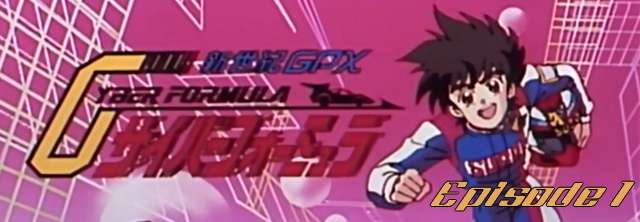
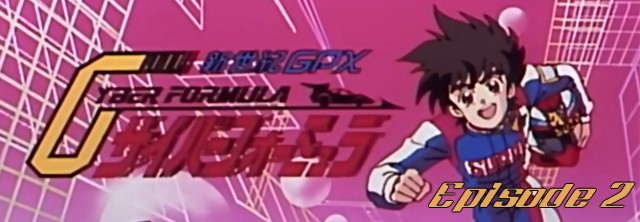
new post

Changed region(s): [[0.6562, 0.8108, 1.0, 0.973]]

diff --git a/2014-08-13.html b/2014-08-13.html
@@ -1,7 +1,7 @@
 <!DOCTYPE html>
 <html lang="fr-FR">
 	<head>
-		<title>Future GPX Cyber Formula | Nobluesky Fansub</title>
+		<title>Future GPX Cyber Formula 02 vostfr | Nobluesky Fansub</title>
 		<meta charset="utf-8" />
 		<link rel="Shortcut Icon" type="image/x-icon" href="favicon.ico" />
 		<link href="fonts/fonts.css" rel="stylesheet" type="text/css" />
@@ -51,26 +51,34 @@
 	<div id="article">
 		<div id="content">
 			<div class="post">
-				<h1 class="title">Future GPX Cyber Formula</h1>
-				<div style="clear: both;">&nbsp;</div>
+				<h1 class="title">Future GPX Cyber Formula 02 vostfr</h1>
+				<p class="meta"><span class="date">13 Août 2014</span><span class="posted">Posté par <a href="about.html#nobluesky">Nobluesky</a></span></p>
 				<div style="clear: both;">&nbsp;</div>
 				<div class="entry">
-					<img class="post-images" src="images/2014/futuregpxcf.jpg" alt="" />
-					<p>Série de 37 épisodes, 1991.</p>
-					<p>Hayato Kazami, 14 ans, devient par hasard le plus jeune pilote de Cyber Formule, une course dans laquelle tous les véhicules sont dotés d'un ordinateur de bord pour l'aide au pilotage.</p>
-					<p>Avec l'aide d'Asurada, un Cyber-ordinateur de bord révolutionnaire, et des membres de l'équipe Sugo, Hayato va courir pour la victoire au 10è Grand Prix de Cyber Formule. Mais il devra apprendre ce qu'implique le fait de devenir un véritable pilote, et que la victoire ne peut être atteinte simplement parce qu'on est au volant de la meilleure machine.</p>
-					<p>De plus, Hayato devra trouver sa place parmi les pilotes expérimentés et déjouer les actions de ceux qui essayent de voler Asurada, mais aussi participer à des courses indépendantes de la Cyber-Formule.</p>
-					<p>Une série à ne pas manquer pour les amateurs des 90's!</p>
+					<img class="post-images" src="images/2014/news3.jpg" alt="" />
+					<p>Et voici le deuxième épisode de Future GPX Cyber Formula!</p>
+					<p>Hayato a bien réussi à amener l'Asurada à bon port, mais le pilote officiel ne peut la conduire à cause du système d'identification. L'informaticien du groupe va tenter de résoudre le problème.</p>
+					<p>L'équipe est en danger et va devoir discuter sérieusement! Qui va piloter l'Asurada?</p>
+					<p>Bon épisode!</p>
 					<h3>Téléchargements et streaming</h3>
-					Episode 1 : 
-					<p class="links dl"><a href="http://jheberg.net/captcha/nobluesub-future-gpx-cyber-formula-01/" class="button-dl">Jheberg</a></p>&nbsp; | &nbsp;
-					<p class="links dl"><a href="http://rutube.ru/video/d49543549a6f6229fdcd4724575187cd/" class="button-dl">Rutube</a></p>&nbsp; | &nbsp;
-					<p class="links dl"><a href="https://mega.co.nz/#!bMt0BIoD!3yXlezz3JkE9BZYLZl0UL5gsE5t6_phijXM9_VGniQU" class="button-dl">Mega</a></p>
-					<br>
-					Episode 2 : 
 					<p class="links dl"><a href="http://jheberg.net/captcha/nobluesub-future-gpx-cyber-formula-02/" class="button-dl">Jheberg</a></p>&nbsp; | &nbsp;
 					<p class="links dl"><a href="http://rutube.ru/video/c5a4b720a35926d79850aeeb4f044552/" class="button-dl">Rutube</a></p>&nbsp; | &nbsp;
 					<p class="links dl"><a href="https://mega.co.nz/#!zJt2zIwZ!9tV6DEytcz_JGZvYP1pc0cvbaDAPCT85SX0V6UXE-Go" class="button-dl">Mega</a></p>
+					<h3>Commentaires</h3>
+					<div id="disqus_thread"></div>
+					<script type="text/javascript">
+						/* * * CONFIGURATION VARIABLES: EDIT BEFORE PASTING INTO YOUR WEBPAGE * * */
+						var disqus_shortname = 'noblueskyfansub'; // required: replace example with your forum shortname
+
+						/* * * DON'T EDIT BELOW THIS LINE * * */
+						(function() {
+							var dsq = document.createElement('script'); dsq.type = 'text/javascript'; dsq.async = true;
+							dsq.src = '//' + disqus_shortname + '.disqus.com/embed.js';
+							(document.getElementsByTagName('head')[0] || document.getElementsByTagName('body')[0]).appendChild(dsq);
+						})();
+					</script>
+					<noscript>Activez javascript pour voir les commentaires.</noscript>
+					<a href="http://disqus.com" class="dsq-brlink">commentaires propulsés par <span class="logo-disqus">Disqus</span></a>
 				</div>
 			</div>
 			<div style="clear: both;">&nbsp;</div>

diff --git a/index.html b/index.html
@@ -47,7 +47,7 @@
 	<div class="slider-wrapper theme-default">
 		<div class="ribbon"></div>
 		<div id="slider" class="nivoSlider">
-			<a href="2014-08-09.html"><img src="images/img01.jpg" alt="" /></a>
+			<a href="2014-08-13.html"><img src="images/img01.jpg" alt="" /></a>
 		</div>
 	</div>
 <script type="text/javascript">
@@ -75,8 +75,21 @@
 				</div>
 			</div>
 			<div class="post">
+				<h1 class="title"><a href="2014-08-13.html">Future GPX Cyber Formula 02 vostfr</a></h1>
+				<p class="meta"><span class="date">13 Août 2014</span><span class="posted">Posté par <a href="about.html#nobluesky">Nobluesky</a></span></p>
+				<p><a href="http://nobluesub.com/2014-08-13.html#disqus_thread"></a></p>
+				<div style="clear: both;">&nbsp;</div>
+				<div class="entry">
+					<img class="post-images" src="images/2014/news3.jpg" alt="" />
+					<p>Et voici le deuxième épisode de Future GPX Cyber Formula!</p>
+					<p>Hayato a bien réussi à amener l'Asurada à bon port, mais le pilote officiel ne peut la conduire à cause du système d'identification. L'informaticien du groupe va tenter de résoudre le problème.</p>
+					<p>L'équipe est en danger et va devoir discuter sérieusement! Qui va piloter l'Asurada...</p>
+					<p class="links"><a href="2014-08-13.html" class="button">Lire la suite</a></p>
+				</div>
+			</div>
+			<div class="post">
 				<h1 class="title"><a href="2014-08-09.html">Future GPX Cyber Formula 01 vostfr</a></h1>
-				<p class="meta"><span class="date">9 août 2014</span><span class="posted">Posté par <a href="about.html#nobluesky">Nobluesky</a></span></p>
+				<p class="meta"><span class="date">9 Août 2014</span><span class="posted">Posté par <a href="about.html#nobluesky">Nobluesky</a></span></p>
 				<p><a href="http://nobluesub.com/2014-08-09.html#disqus_thread"></a></p>
 				<div style="clear: both;">&nbsp;</div>
 				<div class="entry">

diff --git a/2014-08-09.html b/2014-08-09.html
@@ -52,7 +52,7 @@
 		<div id="content">
 			<div class="post">
 				<h1 class="title">Future GPX Cyber Formula 01 vostfr</h1>
-				<p class="meta"><span class="date">9 août 2014</span><span class="posted">Posté par <a href="about.html#nobluesky">Nobluesky</a></span></p>
+				<p class="meta"><span class="date">9 Août 2014</span><span class="posted">Posté par <a href="about.html#nobluesky">Nobluesky</a></span></p>
 				<div style="clear: both;">&nbsp;</div>
 				<div class="entry">
 					<img class="post-images" src="images/2014/news2.jpg" alt="" />

diff --git a/sidebar.html b/sidebar.html
@@ -23,7 +23,7 @@
 		<li>
 			<h2>Avancements</h2>
 			<ul>
-				<li>Future GPX Cyber Formula 02 : 0%<progress max="100" value="0"></progress></li>
+				<li>Future GPX Cyber Formula 02 : 100%<progress max="100" value="100"></progress></li>
 			</ul>
 		</li>
 		<li>
